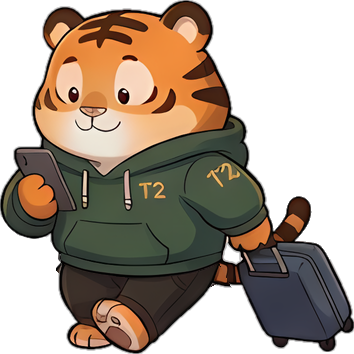
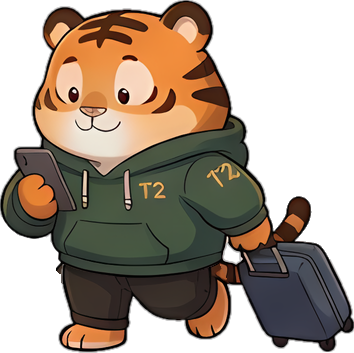
호랑이 걷기 개선: 몸 들썩임 제거, 양발이 번갈아 딛게, 걷는 속도를 디딘 발에 맞춤 / 비행기 보류
- 모든 프레임의 기준점을 같은 윗몸에 둬서 몸이 위아래로 튀지 않음 (실측: 머리 높이 고정)
- Gemini 그림에는 한쪽 발만 앞으로 나오는 자세뿐이라, 다리만 엉덩이 중심으로 뒤집어 반대 발 디딤 자세를 만듦 (art/tools/mirror_legs.py)
- 걸음 순서: 디딤 2 → 지나감 2 → 반대발 디딤 2 → 지나감 2
- 디딘 발이 몸 기준으로 뒤로 가는 거리를 재서 전진 속도를 16→22로 맞춤
- 비행기는 장면에서 끔 (값은 build_lounge_scene.py의 PLANES에 보관)

Claude-Session: https://claude.ai/code/session_012VFbGgDXK9mz8qoLwWp9w1

diff --git a/art/tools/build_tiger_walker.py b/art/tools/build_tiger_walker.py
@@ -1,46 +1,87 @@
 #!/usr/bin/env python3
-"""Pack the tiger walk loop (art/cutouts/tiger_walk_b/loop) into a walker character for the lounge.
+"""Build the tiger walk loop and pack it into a walker character for the lounge.
 
     python3 art/tools/build_tiger_walker.py
 
-Writes ui/web/lounge/assets/chars/tiger_walker/{atlas.webp, manifest.json}. A walker only has
-walk_r / walk_l: it crosses the lounge and leaves (no sofa). Each frame's anchor is the head's centre
-column and the bottom of the feet, so the body stays put and only bobs as the legs change.
+1. legs: the cells of art/cutouts/tiger_walk_b/left_*.png, plus the "other foot forward" poses made
+   by flipping only the legs (mirror_legs.py) - Gemini never drew that foot stepping;
+2. one upper body for every frame (lockbody.py), written to art/cutouts/tiger_walk_b/loop/left_*;
+3. right-facing copies with the T2 letters kept readable (mirror_logo.py) -> loop/right_*;
+4. ui/web/lounge/assets/chars/tiger_walker/{atlas.webp, manifest.json}.
+A walker only has walk_r / walk_l: it crosses the lounge and leaves (no sofa). Every frame shares one
+anchor on the upper body, so the body glides level and only the legs move.
 """
 import json
+import shutil
+import subprocess
+import sys
+import tempfile
 from pathlib import Path
 import numpy as np
 from PIL import Image
 
 ROOT = Path(__file__).resolve().parents[2]
-SRC = ROOT / 'art/cutouts/tiger_walk_b/loop'
+CELLS = ROOT / 'art/cutouts/tiger_walk_b'
+SRC = CELLS / 'loop'
+TOOLS = Path(__file__).resolve().parent
+# leg order: contact, contact, passing, passing, other-foot contact (flipped legs) x2, passing x2
+ORDER = ['10', '20', '02', '22', 'm10', 'm20', '30', '02']
+BASE = '10'               # the upper body every frame shares
 OUT = ROOT / 'ui/web/lounge/assets/chars/tiger_walker'
 SCALE = 0.62          # atlas pixels per source pixel (keeps the atlas small)
-FPS, ADVANCE = 10, 16  # frames per second, scene px moved per frame (before charScale)
+FPS, ADVANCE = 10, 22  # frames per second, scene px moved per frame (matches the planted foot, see footslip check)
 
 
-def anchor(im):
+def anchor_x(im):
     a = np.asarray(im)[..., 3] > 128
     top = int(np.nonzero(a.any(1))[0][0])
     xs = np.nonzero(a[top:top + int(im.height * 0.35)])[1]
-    return int(round(xs.mean())), im.height - 1
+    return int(round(xs.mean()))
+
+
+def run(*args):
+    subprocess.run([sys.executable, '-I', *map(str, args)], check=True, stdout=subprocess.DEVNULL)
+
+
+def build_loop():
+    with tempfile.TemporaryDirectory() as tmp:
+        tmp = Path(tmp); cells, out = tmp / 'cells', tmp / 'loop'
+        cells.mkdir()
+        for p in CELLS.glob('left_*.png'):
+            shutil.copy(p, cells / ('f_' + p.stem[5:] + '.png'))
+        for n in {o[1:] for o in ORDER if o.startswith('m')}:
+            run(TOOLS / 'mirror_legs.py', cells / ('f_%s.png' % n), cells / ('f_m%s.png' % n))
+        run(TOOLS / 'lockbody.py', cells, BASE, out, ','.join(ORDER))
+        SRC.mkdir(exist_ok=True)
+        for i in range(len(ORDER)):
+            shutil.copy(out / ('f_%d.png' % i), SRC / ('left_%d.png' % i))
+            run(TOOLS / 'mirror_logo.py', out / ('f_%d.png' % i), SRC / ('right_%d.png' % i))
 
 
 def main():
+    build_loop()
     frames_img = []
     for side in ('right', 'left'):
         for i in range(8):
             im = Image.open(SRC / ('%s_%d.png' % (side, i))).convert('RGBA')
             im = im.resize((round(im.width * SCALE), round(im.height * SCALE)), Image.LANCZOS)
             frames_img.append(im)
+    # same height for all (pad at the bottom): the frames all start at the top of the shared head
+    hmax = max(im.height for im in frames_img)
+    for k, im in enumerate(frames_img):
+        pad = Image.new('RGBA', (im.width, hmax), (0, 0, 0, 0)); pad.paste(im, (0, 0)); frames_img[k] = pad
+    base_h = round(Image.open(SRC / 'left_0.png').height * SCALE)
     W = sum(im.width for im in frames_img[:8]) + 16
     H = max(im.height for im in frames_img) * 2 + 4
     atlas = Image.new('RGBA', (max(W, sum(im.width for im in frames_img[8:]) + 16), H), (0, 0, 0, 0))
     frames, x, y, rowh = [], 0, 0, max(im.height for im in frames_img) + 2
+    # every frame is cropped at the top of the (shared) head, so one foot line for all of them keeps
+    # the body level: the base frame's own feet
+    body_y = base_h - 1
     for k, im in enumerate(frames_img):
         if k == 8: x, y = 0, rowh
         atlas.paste(im, (x, y))
-        ax, ay = anchor(im)
+        ax, ay = anchor_x(im), body_y
         frames.append({'x': x, 'y': y, 'w': im.width, 'h': im.height, 'ax': ax, 'ay': ay})
         x += im.width + 2
     OUT.mkdir(parents=True, exist_ok=True)

diff --git a/art/tools/mirror_legs.py b/art/tools/mirror_legs.py
@@ -1,0 +1,27 @@
+"""Make the 'other leg forward' pose: flip the legs (below the hoodie hem, left of the suitcase)
+about the hip centre. Near the waist, pixels the flip leaves empty are filled from the original so
+the waistband outline stays whole. usage: mirror_legs.py IN OUT [cx]"""
+import sys, numpy as np
+from PIL import Image
+a = np.asarray(Image.open(sys.argv[1]).convert('RGBA')).astype(np.float32)
+cx = float(sys.argv[3]) if len(sys.argv) > 3 else 127.0
+H, W = a.shape[:2]
+r, g, b, al = [a[..., i] for i in range(4)]
+green = (g > r + 5) & (g > b) & (al > 128)
+hem = np.array([np.nonzero(green[:, x])[0].max() if green[:, x].sum() >= 3 else -1 for x in range(W)])
+hm = int(np.median(hem[(hem > 0) & (np.arange(W) < 215)]))
+EDGE = [(0, 218), (262, 218), (285, 230), (305, 243), (H, 258)]
+xb = np.interp(np.arange(H), [p[0] for p in EDGE], [p[1] for p in EDGE])
+out = a.copy()
+for y in range(hm + 2, H):
+    lim = int(xb[y])
+    src = a[y, :lim].copy()
+    flip = np.zeros_like(src)
+    xs = np.arange(lim); nx = np.round(2 * cx - xs).astype(int); okx = (nx >= 0) & (nx < lim)
+    flip[nx[okx]] = src[xs[okx]]
+    if y < hm + 30:                                   # waist: original silhouette, flipped inside
+        fill = (flip[:, 3] < 200) & (src[:, 3] > flip[:, 3])
+        flip[fill] = src[fill]
+        flip[src[:, 3] < 20] = 0
+    out[y, :lim] = flip
+Image.fromarray(out.clip(0, 255).astype(np.uint8)).save(sys.argv[2])

diff --git a/art/tools/build_lounge_scene.py b/art/tools/build_lounge_scene.py
@@ -44,10 +44,12 @@ SCENE = {
     'entries': {'left': -320, 'right': 1760},
     'lamps': [{'x': 120, 'y': 700, 'r': 520}, {'x': 660, 'y': 660, 'r': 460}],
     'floorLight': None,
-    # a plane taxis past the window every `period` seconds, taking `duration` seconds
-    'planes': {'right': 'bg/plane_right.webp', 'left': 'bg/plane_left.webp',
-               'y': 760, 'height': 280, 'from': 380, 'to': 1980, 'period': 150, 'duration': 80, 'haze': 0.3},
+    # a plane taxis past the window every `period` seconds, taking `duration` seconds.
+    # On hold for now (PLANES below keeps the tuned values); None leaves the window view still.
+    'planes': None,
 }
+PLANES = {'right': 'bg/plane_right.webp', 'left': 'bg/plane_left.webp',
+          'y': 760, 'height': 280, 'from': 380, 'to': 1980, 'period': 150, 'duration': 80, 'haze': 0.3}
 
 
 def mask_image():
